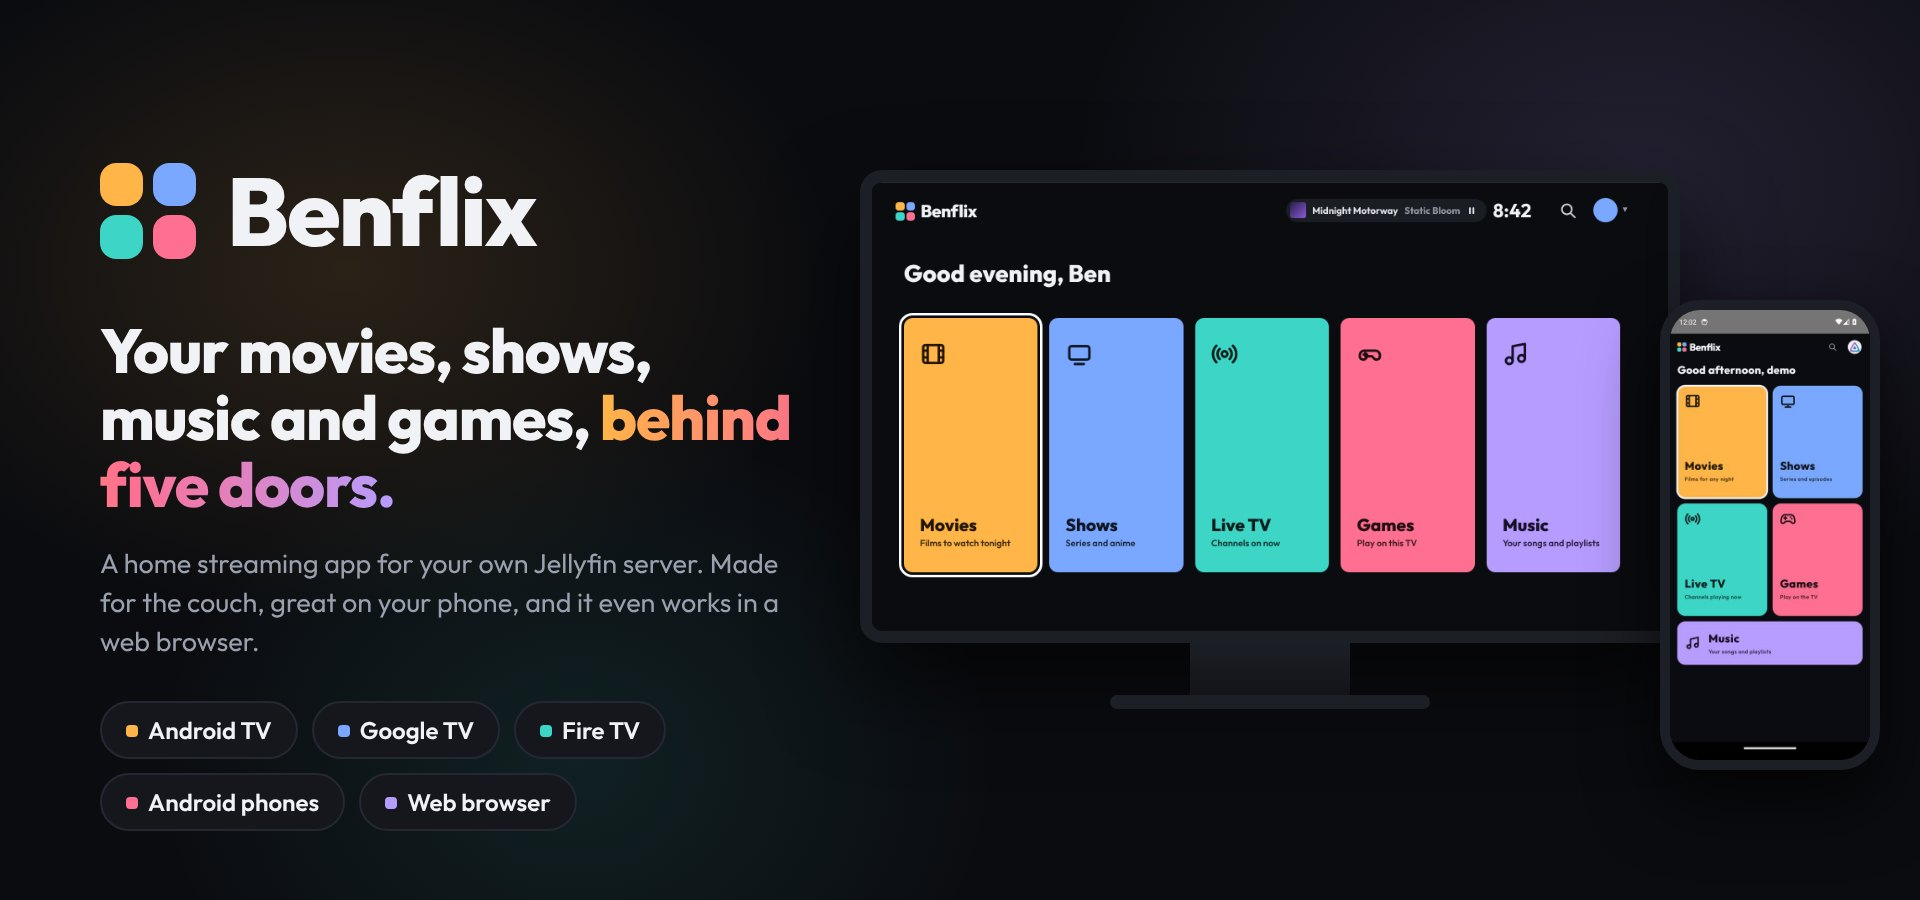
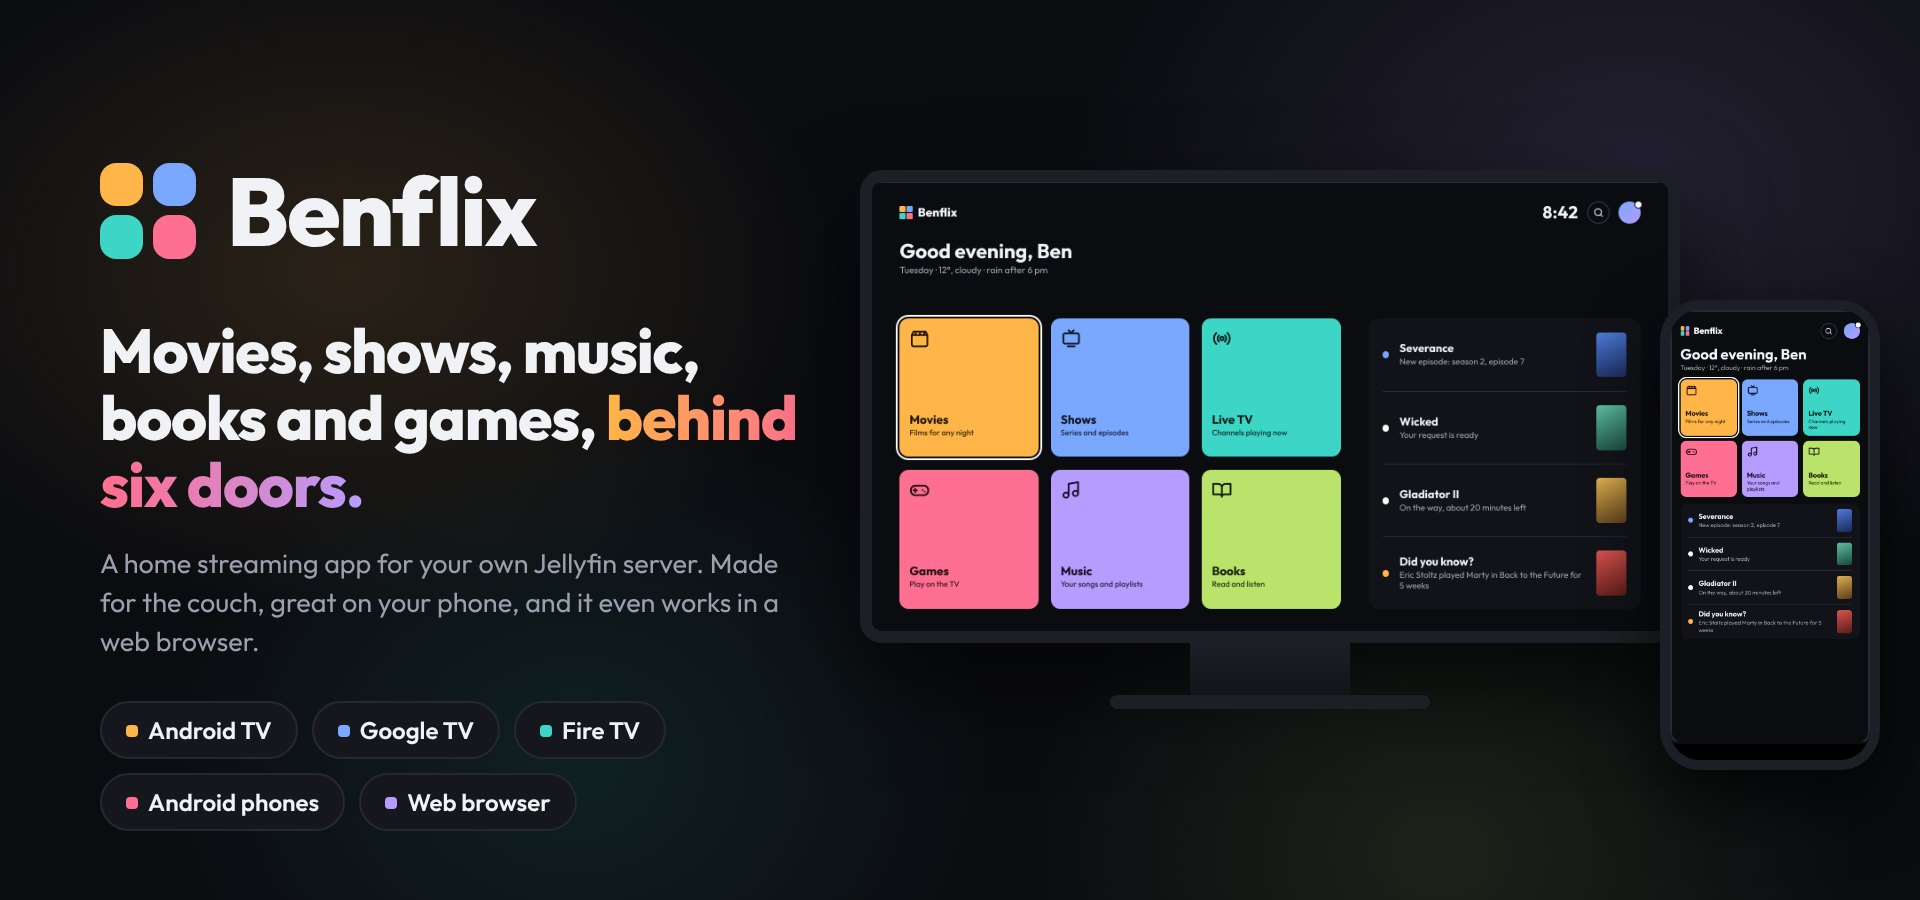
A refreshed GitHub page: six doors, Books, music previews, Home news list and more (#366)
Claude-Session: https://claude.ai/code/session_01LFUoFdqBftZ75hQC2LEu2K

diff --git a/README.md b/README.md
@@ -1,5 +1,5 @@
 <p align="center">
-  <img src="docs/readme/hero.jpg" alt="Benflix on a TV and a phone: the Home screen with five coloured doors for Movies, Shows, Live TV, Games and Music" width="100%"/>
+  <img src="docs/readme/hero.jpg" alt="Benflix on a TV and a phone: the Home screen with six coloured doors for Movies, Shows, Live TV, Games, Music and Books, and a list of your news beside them" width="100%"/>
 </p>
 
 <p align="center">
@@ -20,10 +20,14 @@
 ## What is Benflix?
 
 Benflix is a home streaming app. It plays the movies, shows and music you already keep on your own
-[Jellyfin](https://jellyfin.org/) server, adds live TV channels, and plays your retro games right on the TV or phone.
+[Jellyfin](https://jellyfin.org/) server, lets you read and listen to your books, adds live TV channels,
+and plays your retro games right on the TV or phone.
 
-Everything sits behind **five coloured doors**: 🟧 **Movies**, 🟦 **Shows**, 🟩 **Live TV**, 🟥 **Games** and 🟪 **Music**.
-Each door keeps its colour everywhere inside it, so you always know where you are.
+Everything sits behind **six coloured doors**: 🟧 **Movies**, 🟦 **Shows**, 🟩 **Live TV**, 🟥 **Games**, 🟪 **Music**
+and 🟨 **Books**. Each door keeps its colour everywhere inside it, so you always know where you are.
+
+Beside the doors, Home shows **a short list of your news**: a new episode of a show you watch, a request that's
+ready, something on its way, or a fun fact, plus today's weather. Clear any line with an **X**, or all of them with **Clear all**.
 
 It is a personal project for family and friends. It is not in the Google Play Store or the Amazon Appstore,
 so you install it yourself. It takes about five minutes, see [How to install](#how-to-install).
@@ -32,21 +36,21 @@ Benflix is built on top of the excellent open-source app [Wholphin](https://gith
 See [Credits and license](#credits-and-license).
 
 <p align="center">
-  <img src="docs/readme/how-it-fits.png" alt="Your server at home runs Jellyfin, Seerr, Lidarr, RomM, the Benflix helper, Trailarr, Sonarr and Radarr. Benflix on your TV, your phone and in a web browser connects to it." width="100%"/>
+  <img src="docs/readme/how-it-fits.png" alt="Your server at home runs Jellyfin, Seerr, Lidarr, Chaptarr, RomM, the Benflix helper, Trailarr, Sonarr and Radarr. Benflix on your TV, your phone and in a web browser connects to it." width="100%"/>
 </p>
 
 ## A quick look
 
 <p align="center">
-  <img src="docs/readme/tv-tour.jpg" alt="Benflix on the TV: a show page, Live TV, Games, the Music page, the Now playing screen with lyrics, and Search" width="100%"/>
+  <img src="docs/readme/tv-tour.jpg" alt="Benflix on the TV: the Movies door, a show page, Live TV, Games, the Music page, the Now playing screen with lyrics, a manga in Books, book requests, and Search" width="100%"/>
 </p>
 
 <p align="center">
   <img src="docs/readme/phone-tour.jpg" alt="Real screenshots of Benflix on a phone: Home, Movies, Shows, Live TV, Games, Search, a movie page and Settings" width="100%"/>
 </p>
 
-<sub>The phone pictures are real screenshots, taken by the test robot on the public Jellyfin demo server.
-The TV pictures come from the finished Benflix design, with made-up titles.</sub>
+<sub>The phone pictures are real screenshots, taken by the test robot on the public Jellyfin demo server
+(from before the Books door arrived). The TV pictures come from the finished Benflix design, with made-up titles.</sub>
 
 ## What's inside
 
@@ -57,7 +61,9 @@ The TV pictures come from the finished Benflix design, with made-up titles.</sub
 ### 🟧 Movies and 🟦 Shows
 - Each door opens on a big **Picked for you** banner, then **Keep watching**, **My List**, **Top 10**, collections and more
 - Clean title pages with **IMDb** and **Rotten Tomatoes** scores, a trailer that fades in, and **More like this**
-- **Did you know?** fun facts on movie and show pages
+- **Did you know?** fun facts on hundreds of movie and show pages
+- **Ask for more like this**: a row of similar titles you don't have yet, ready to ask for
+- Can't decide? **This or that** and the **Mood quiz** at the bottom of Movies and Shows pick something for you
 - Shows list every season and episode, with "New episode" news on Home
 - Anime gets its own picks, Dubbed and Subbed, plus **AniList** and **MyAnimeList** scores
 - An **All movies** and **All shows** grid you can sort by newest, A to Z or year
@@ -68,7 +74,7 @@ The TV pictures come from the finished Benflix design, with made-up titles.</sub
 ### ▶ Watching
 - A clean player with **Skip intro** and **Skip credits** that find the right spot by themselves
 - The next episode plays by itself (you choose when it stops)
-- Subtitles move out of the way of on-screen words
+- **Subtitles are in English by default**, everywhere, and they move out of the way of on-screen words
 - A **parents' guide** on every title
 - Two video players (ExoPlayer and MPV) for the best subtitle support
 
@@ -82,7 +88,8 @@ The TV pictures come from the finished Benflix design, with made-up titles.</sub
 - Album, artist and playlist pages that look like movie pages
 - A **Now playing** screen with **lyrics** and colourful music bars
 - **Save songs to your phone** to listen with no internet
-- Bring in your playlists from **Spotify, YouTube Music** or **Deezer**
+- Bring in your playlists from **Spotify, YouTube Music** or **Deezer**, or just the songs
+- **Ask for songs and albums**, and hear a **30 second preview** first
 - Music also plays in Benflix in your web browser
 
 </td>
@@ -113,8 +120,30 @@ The TV pictures come from the finished Benflix design, with made-up titles.</sub
 - **One search for everything**: movies, shows, live channels, games and music, side by side
 - Search in plain words, or with your voice, or type on your phone
 - Can't find it? **Ask for it** right from Search
-- Ask for **movies and shows** (powered by [Seerr](https://github.com/seerr-team/seerr)) or **songs, albums and playlists** (powered by [Lidarr](https://lidarr.audio/))
-- See when it's on its way, and get told when it's ready to watch
+- Ask for **movies, shows and anime** (powered by [Seerr](https://github.com/seerr-team/seerr)), **songs, albums and playlists** (powered by [Lidarr](https://lidarr.audio/)) or **books and audiobooks** (powered by Chaptarr)
+- Requests pages with a **Top 10 to ask for this week**, genres, and a wall of posters
+- See when it's on its way, and get told on Home when it's ready
+
+</td>
+</tr>
+<tr>
+<td width="50%" valign="top">
+
+### 🟨 Books
+- **Read manga, comics and ebooks**, and **listen to audiobooks**, right in Benflix
+- Manga series show as one tile, with **Keep reading** on the next volume
+- Books Home has **top lists with the books you have**: New York Times, Apple Books and Hardcover best sellers, award winners, genre rows, **Readers love these** and **Quick reads**
+- A **Want to read** list, and Ask for it (or Ask Ben) for books you don't have yet
+- Book requests with a **Book of the week**, a Top 10, best seller lists, genres and a page for every book, in English
+
+</td>
+<td width="50%" valign="top">
+
+### 🌐 Web Benflix
+- Open your server's address in **any web browser**, at home or away, no install needed
+- The same six doors, player, music, requests and settings as on the TV
+- Now caught up with the TV and phone: **Ask for more like this**, the parents' guide, anime extras, game roulette and more
+- The admin's **Server page** and tools live here too
 
 </td>
 </tr>
@@ -130,11 +159,11 @@ The TV pictures come from the finished Benflix design, with made-up titles.</sub
 </td>
 <td width="50%" valign="top">
 
-### 📱 Phone and 🌐 web
-- A touch-friendly phone layout, with the same five doors
+### 📱 Phone
+- A touch-friendly phone layout, with the same six doors
 - Use your phone as a **TV remote**, or send something to **Play on TV**
 - **Quick Connect**: sign a new TV in by typing its code on your phone
-- **Web Benflix**: open your server's address in any web browser, at home or away, no install needed
+- Save songs to listen with no internet
 
 </td>
 </tr>
@@ -194,17 +223,20 @@ If you run the server, Benflix has a few extra tools that only admins see:
 
 - **Server page** in the app and in web Benflix: who's watching, your libraries, downloads, problems and chores,
   with fix-it buttons, a **Benflix versions** list for every TV and phone, and a way to send a message to one person
-- **Requests** to approve or decline, for movies, shows and music
+- **Requests** to approve or decline, for movies, shows, music and books
 - **Poster fixer** to swap bad posters one at a time
+- **Delete and find again** for a bad copy of a song
+- Send a **note** that shows on Home, and pick the town for the **Home weather** (Server > Tools)
 
 **What the server needs:**
 
 | | Needed for | |
 |---|---|---|
 | [Jellyfin](https://jellyfin.org/) (version 12 recommended) | Everything | Required |
-| Benflix helper (in the [`server`](server) folder) | Games, Live TV, web Benflix, Skip intro, music extras, fun facts | Recommended |
+| Benflix helper (in the [`server`](server) folder) | Games, Live TV, Books, web Benflix, Skip intro, music extras, fun facts, Home weather | Recommended |
 | [Seerr / Jellyseerr](https://github.com/seerr-team/seerr) | Asking for movies and shows | Optional |
 | [Lidarr](https://lidarr.audio/) | Asking for music | Optional |
+| Chaptarr (a Readarr-style book downloader) | Asking for books and audiobooks | Optional |
 | [RomM](https://github.com/rommapp/romm) | Your game library | Optional |
 | [Trailarr](https://github.com/nandyalu/trailarr) | Trailers on title pages | Optional |
 
@@ -224,7 +256,7 @@ If you want a polished Jellyfin app from the Play Store, go get Wholphin!
 Thanks also to:
 - The [Jellyfin](https://jellyfin.org/) team for the media server
 - The official [Jellyfin Android TV](https://github.com/jellyfin/jellyfin-androidtv) app, which some of Wholphin's playback code is adapted from
-- The [Jellyfin Kotlin SDK](https://github.com/jellyfin/jellyfin-sdk-kotlin), [RomM](https://github.com/rommapp/romm), [Seerr](https://github.com/seerr-team/seerr), [Lidarr](https://lidarr.audio/), [iptv-org](https://github.com/iptv-org/iptv) and all the other open-source projects this app uses
+- The [Jellyfin Kotlin SDK](https://github.com/jellyfin/jellyfin-sdk-kotlin), [RomM](https://github.com/rommapp/romm), [Seerr](https://github.com/seerr-team/seerr), [Lidarr](https://lidarr.audio/), [Open Library](https://openlibrary.org/), [AniList](https://anilist.co/), [iptv-org](https://github.com/iptv-org/iptv) and all the other open-source projects this app uses
 
 Benflix is not connected to, or endorsed by, Netflix, Jellyfin or Wholphin.
 
